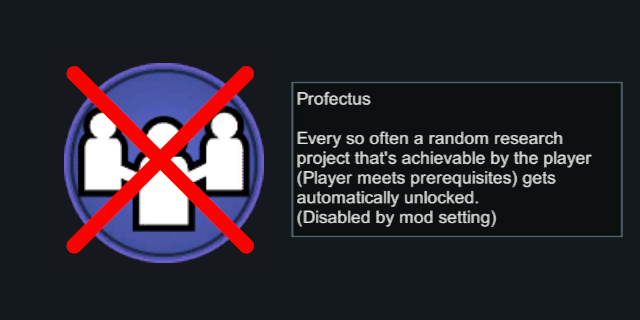
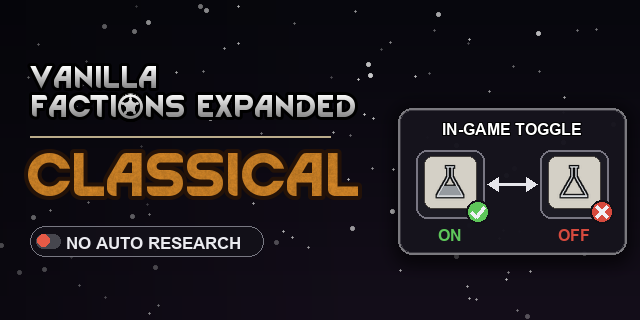
feat: play settings

diff --git a/Source/AutoResearchToggle.cs b/Source/AutoResearchToggle.cs
@@ -1,0 +1,47 @@
+using UnityEngine;
+using Verse;
+using VFEC.Perks;
+
+namespace VFEClassicalNoAutoResearch
+{
+    // Backs the bottom-right play-settings toggle. State lives in the global
+    // Settings.AutoResearchEnabled, so the toggle and the settings checkbox stay in sync.
+    public static class AutoResearchToggle
+    {
+        private static Texture2D iconFull;
+        private static Texture2D iconEmpty;
+        private static PerkDef profectusDef;
+
+        // Full flask = auto research on, empty = off. ToggleableIcon draws the vanilla
+        // green-check/red-X on top, so both the flask fill and the check/X show the state.
+        public static Texture2D IconFull => iconFull ??= ContentFinder<Texture2D>.Get("UI/AutoResearchToggle_Full");
+        public static Texture2D IconEmpty => iconEmpty ??= ContentFinder<Texture2D>.Get("UI/AutoResearchToggle_Empty");
+
+        public static bool PerkObtained()
+        {
+            var game = Current.Game;
+            if (game == null) return false;
+
+            var manager = game.GetComponent<GameComponent_PerkManager>();
+            if (manager?.ActivePerks == null) return false;
+
+            profectusDef ??= DefDatabase<PerkDef>.GetNamedSilentFail("Profectus");
+            return profectusDef != null && manager.ActivePerks.Contains(profectusDef);
+        }
+
+        public static void DrawToggle(WidgetRow row)
+        {
+            var settings = PatchMod.Settings;
+            var enabled = settings.AutoResearchEnabled;
+            var before = enabled;
+            var tex = enabled ? IconFull : IconEmpty;
+
+            row.ToggleableIcon(ref enabled, tex, "VFEC_NAR_ToggleTip".Translate());
+
+            if (enabled == before) return;
+            settings.AutoResearchEnabled = enabled;
+            settings.SyncProfectusDescription();
+            settings.Write();
+        }
+    }
+}

diff --git a/Source/DebugActions.cs b/Source/DebugActions.cs
@@ -1,0 +1,44 @@
+using System.Reflection;
+using LudeonTK;
+using Verse;
+using VFEC.Perks;
+using VFEC.Perks.Workers;
+
+namespace VFEClassicalNoAutoResearch
+{
+    // Dev-mode helper to inspect where the mod stands
+    public static class DebugActions
+    {
+        private const string Category = "VFE Classical - No Auto Research";
+        private const int TicksPerDay = 60000; // Profectus INTERVAL
+
+        private static readonly FieldInfo NextResearchTickField =
+            typeof(Profectus).GetField("nextResearchTick", BindingFlags.Instance | BindingFlags.NonPublic);
+        private static readonly FieldInfo ResearchesUnlockedField =
+            typeof(Profectus).GetField("researchesUnlocked", BindingFlags.Instance | BindingFlags.NonPublic);
+
+        private static Profectus Worker =>
+            DefDatabase<PerkDef>.GetNamedSilentFail("Profectus")?.Worker as Profectus;
+
+        [DebugAction(Category, "Log Profectus status", allowedGameStates = AllowedGameStates.PlayingOnMap)]
+        private static void LogProfectusStatus()
+        {
+            var enabled = PatchMod.Settings.AutoResearchEnabled;
+            var obtained = AutoResearchToggle.PerkObtained();
+            var worker = Worker;
+
+            if (!obtained || worker == null)
+            {
+                Log.Message($"[No Auto Research] perk obtained: {obtained}, setting enabled: {enabled}. " +
+                            "Perk not active, so nothing is scheduled yet.");
+                return;
+            }
+
+            var next = (int)NextResearchTickField.GetValue(worker);
+            var unlocked = (int)ResearchesUnlockedField.GetValue(worker);
+            var remaining = next - Find.TickManager.TicksGame;
+            Log.Message($"[No Auto Research] setting enabled: {enabled}, researches unlocked so far: {unlocked}, " +
+                        $"next unlock in {remaining} ticks (~{remaining / (float)TicksPerDay:0.0} days).");
+        }
+    }
+}

diff --git a/Source/Settings.cs b/Source/Settings.cs
@@ -6,24 +6,26 @@ namespace VFEClassicalNoAutoResearch
 {
     public class Settings : ModSettings
     {
-        private const string DisabledSuffix = "\n(Disabled by mod setting)";
-
-        public bool AutoResearchDisabled = true;
+        public bool AutoResearchEnabled = true;
+        public bool ShowInGameToggle = true;
 
         private static string baseProfectusDescription;
 
         public void DoSettingsWindowContents(Rect inRect)
         {
-            var wasDisabled = AutoResearchDisabled;
+            var wasEnabled = AutoResearchEnabled;
 
             var listing = new Listing_Standard();
             listing.Begin(inRect);
-            listing.CheckboxLabeled("Disable auto research",
-                ref AutoResearchDisabled,
-                "Prevents the Eastern Republic senators' Profectus perk from automatically unlocking random research projects.");
+            listing.CheckboxLabeled("VFEC_NAR_EnableAutoResearch".Translate(),
+                ref AutoResearchEnabled,
+                "VFEC_NAR_EnableAutoResearchTip".Translate());
+            listing.CheckboxLabeled("VFEC_NAR_ShowToggle".Translate(),
+                ref ShowInGameToggle,
+                "VFEC_NAR_ShowToggleTip".Translate());
             listing.End();
 
-            if (AutoResearchDisabled != wasDisabled) SyncProfectusDescription();
+            if (AutoResearchEnabled != wasEnabled) SyncProfectusDescription();
         }
 
         public void SyncProfectusDescription()
@@ -32,13 +34,16 @@ namespace VFEClassicalNoAutoResearch
             if (profectus == null) return;
 
             baseProfectusDescription ??= profectus.description;
-            profectus.description = AutoResearchDisabled ? baseProfectusDescription + DisabledSuffix : baseProfectusDescription;
+            profectus.description = AutoResearchEnabled
+                ? baseProfectusDescription
+                : baseProfectusDescription + "VFEC_NAR_DisabledSuffix".Translate();
         }
 
         public override void ExposeData()
         {
             base.ExposeData();
-            Scribe_Values.Look(ref AutoResearchDisabled, "autoResearchDisabled", true);
+            Scribe_Values.Look(ref AutoResearchEnabled, "autoResearchEnabled", true);
+            Scribe_Values.Look(ref ShowInGameToggle, "showInGameToggle", true);
         }
     }
 }

diff --git a/Source/HarmonyPatches/Vanilla/PlaySettings_DoPlaySettingsGlobalControls_Patch.cs b/Source/HarmonyPatches/Vanilla/PlaySettings_DoPlaySettingsGlobalControls_Patch.cs
@@ -1,0 +1,20 @@
+using HarmonyLib;
+using RimWorld;
+using Verse;
+
+namespace VFEClassicalNoAutoResearch.HarmonyPatches.Vanilla
+{
+    // Appends the auto-research toggle to the bottom-right play-settings row
+    [HarmonyPatch(typeof(PlaySettings), nameof(PlaySettings.DoPlaySettingsGlobalControls))]
+    public static class PlaySettings_DoPlaySettingsGlobalControls_Patch
+    {
+        public static void Postfix(WidgetRow row, bool worldView)
+        {
+            if (worldView) return;
+            if (!PatchMod.Settings.ShowInGameToggle) return;
+            if (!AutoResearchToggle.PerkObtained()) return;
+
+            AutoResearchToggle.DrawToggle(row);
+        }
+    }
+}

diff --git a/Source/HarmonyPatches/VFEC/Profectus_TickLong_Patch.cs b/Source/HarmonyPatches/VFEC/Profectus_TickLong_Patch.cs
@@ -6,6 +6,6 @@ namespace VFEClassicalNoAutoResearch.HarmonyPatches.VFEC
     [HarmonyPatch(typeof(Profectus), nameof(Profectus.TickLong))]
     public static class Profectus_TickLong_Patch
     {
-        public static bool Prefix() => !PatchMod.Settings.AutoResearchDisabled;
+        public static bool Prefix() => PatchMod.Settings.AutoResearchEnabled;
     }
 }

diff --git a/Source/PatchMod.cs b/Source/PatchMod.cs
@@ -22,7 +22,7 @@ namespace VFEClassicalNoAutoResearch
             });
         }
 
-        public override string SettingsCategory() => "VFE Classical - No Auto Research";
+        public override string SettingsCategory() => "VFEC_NAR_SettingsCategory".Translate();
 
         public override void DoSettingsWindowContents(Rect inRect)
         {

diff --git a/README.md b/README.md
@@ -2,7 +2,7 @@
 
 # Vanilla Factions Expanded Classical No Auto Research
 
-Adds a setting to disable the automatic research unlocks granted by the Eastern Republic senators' final achievement (Profectus perk).
+Adds an in-game toggle for the automatic research unlocks granted by the Eastern Republic senators' final achievement (Profectus perk).
 
 ## Why This Mod Exists
 
@@ -10,11 +10,13 @@ I find this perk detrimental to the RimWorld experience I'm looking for, where I
 
 ## Design Goal
 
-Patch Profectus so its automatic research ticks can be toggled off from the mod settings, without touching any other Republic perk or unrelated VFE Classical behavior.
+Let Profectus' automatic research be flipped on or off mid-game, without touching any other Republic perk or unrelated VFE Classical behavior.
 
 ## Usage
 
-"Disable auto research" is checked by default. Uncheck it in Mod Settings > Vanilla Factions Expanded - Classical - No Auto Research to restore vanilla behavior. Toggling it takes effect immediately, no restart needed.
+Once the Profectus perk is unlocked, a flask toggle appears in the bottom-right play-settings row, next to auto-home and auto-rebuild. Click it to switch auto research on or off. State shows two ways, like vanilla toggles: a green check and full flask when on (vanilla behavior), a red X and empty flask when suppressed. It takes effect immediately, no restart needed. The toggle only shows on the map view, and stays hidden until the perk is obtained. Auto research is on by default.
+
+Mod Settings > Vanilla Factions Expanded - Classical - No Auto Research offers the same on/off control as a checkbox, plus a "Show in-game toggle button" option to hide the flask toggle.
 
 ## Installation
 